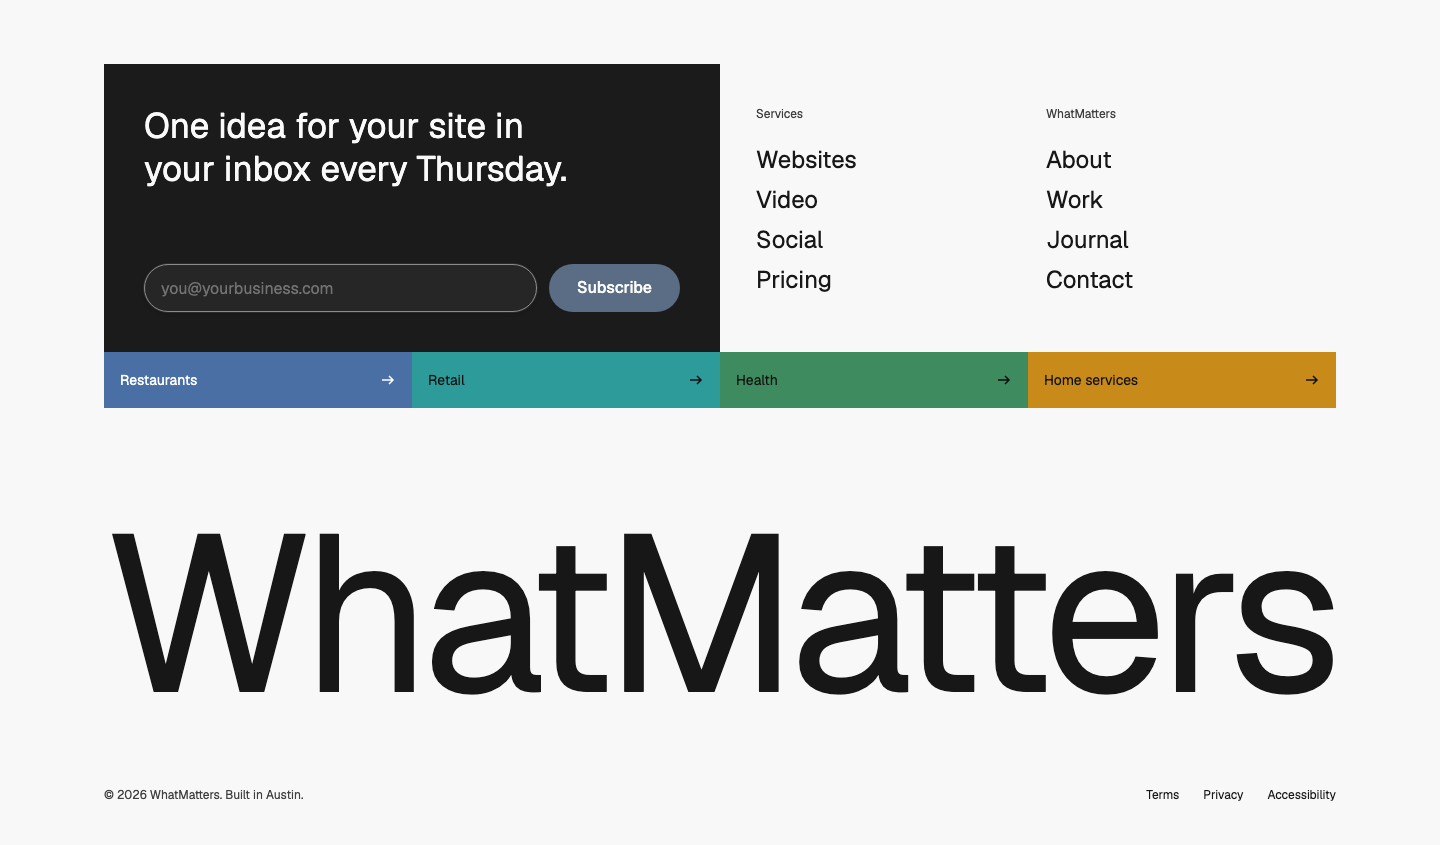
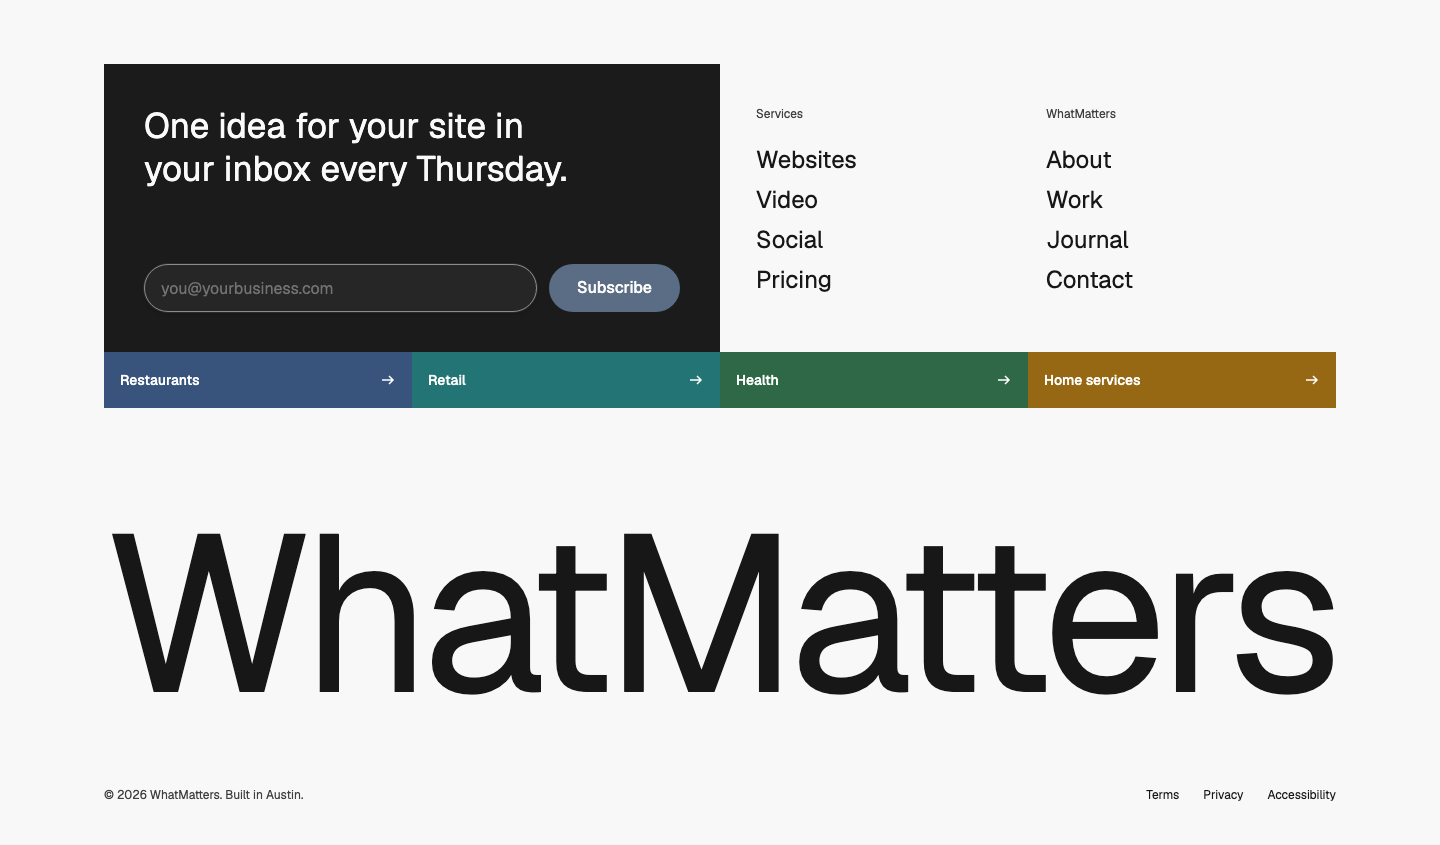
Footer — Wordmark: tiles darkened 25% in light mode with white labels (Randy's pick; 4.9–7.8:1), dark mode unchanged (8–9.5:1); fix tile class join that dropped font-medium and the focus ring; contrast picker reads color(srgb) values

Changed region(s): [[0.0625, 0.4, 0.9375, 0.4923]]

diff --git a/patterns/footer/wordmark/FooterWordmark.tsx b/patterns/footer/wordmark/FooterWordmark.tsx
@@ -5,7 +5,7 @@
  * Everything sits on the WMDS page grid: the card takes the left half, the link columns the right half,
  * the tiles share the page columns (subgrid), and the wordmark spans the full content width.
  */
-import { useId, useLayoutEffect, useRef, useState, type FormEvent, type ReactNode } from "react";
+import { useId, useLayoutEffect, useRef, useState, type CSSProperties, type FormEvent, type ReactNode } from "react";
 import { Button, cn, Input, TextLink } from "@thewhatmatters/wmds";
 
 export interface FooterWordmarkLink {
@@ -66,8 +66,13 @@ const linkItemClasses = "type-heading-1 font-normal text-fg";
 const linkClasses = "inline-block py-1";
 /** Tiles touch, edge to edge: 2 per row on phones and tablets, 4 on desktop, where the row hangs from the card (two tiles = the card's width). */
 const tilesClasses = "col-span-full mt-12 grid grid-cols-2 lg:mt-[calc(var(--grid-row-gap)*-1)] lg:grid-cols-4";
+/**
+ * Tile colour: the given token darkened 25% in light mode, so white text clears AA on every chart colour
+ * (Randy, 2026-10-28: all white labels); in dark mode the token as is (lighter), with dark text.
+ */
 const tileClasses =
-  "group flex min-h-14 items-center justify-between px-4 type-body font-medium" +
+  "group flex min-h-14 items-center justify-between px-4 type-body font-medium " +
+  "bg-[color-mix(in_srgb,var(--tile)_75%,black)] [[data-theme=dark]_&]:bg-[var(--tile)] " +
   "outline-offset-[-3px] focus-visible:outline-2 focus-visible:outline-current";
 const wordmarkClasses = "col-span-full mt-16 overflow-visible text-fg md:mt-24";
 const bottomClasses = "col-span-full mt-10 flex flex-col gap-4 text-muted type-supporting md:mt-16 md:flex-row md:items-center md:justify-between";
@@ -75,9 +80,11 @@ const bottomClasses = "col-span-full mt-10 flex flex-col gap-4 text-muted type-s
 /** Light and dark ink for text on a coloured tile (WMDS has no "on" ink for its chart colours). */
 const inks = { light: "#ffffff", dark: "#111111" };
 
-function luminance(rgb: string) {
-  const [r, g, b] = (rgb.match(/[\d.]+/g) ?? ["0", "0", "0"]).slice(0, 3).map((v) => {
-    const c = Number(v) / 255;
+/** Relative luminance of a computed colour: `rgb(…)` in 0–255, or `color(srgb …)` (from color-mix) in 0–1. */
+function luminance(color: string) {
+  const scale = color.startsWith("color(") ? 1 : 255;
+  const [r, g, b] = (color.match(/[\d.]+/g) ?? ["0", "0", "0"]).slice(0, 3).map((v) => {
+    const c = Number(v) / scale;
     return c <= 0.03928 ? c / 12.92 : ((c + 0.055) / 1.055) ** 2.4;
   });
   return 0.2126 * r + 0.7152 * g + 0.0722 * b;
@@ -204,7 +211,7 @@ export function FooterWordmark({
           <ul ref={tilesRef} className={tilesClasses} data-slot="tiles" data-slot-optional="">
             {tiles.map((tile) => (
               <li key={tile.label} className="contents">
-                <a href={tile.href} className={tileClasses} style={{ backgroundColor: tile.color }} data-tile="">
+                <a href={tile.href} className={tileClasses} style={{ "--tile": tile.color } as CSSProperties} data-tile="">
                   {tile.label}
                   <svg viewBox="0 0 16 16" className="size-4 transition-transform motion-safe:group-hover:translate-x-1" aria-hidden focusable="false">
                     <path d="M2 8h11M9 4l4 4-4 4" fill="none" stroke="currentColor" strokeWidth="1.5" />

diff --git a/patterns/footer/wordmark/README.md b/patterns/footer/wordmark/README.md
@@ -36,7 +36,7 @@ import { FooterWordmark } from "./FooterWordmark";
 | `status` | ReactNode, optional | A line under the form after submitting (sent, already subscribed, an error), announced politely |
 | `emailLabel`, `placeholder`, `submitLabel` | string, optional | The field's spoken label, its placeholder, and the button's text |
 | `columns` | `{ label, links }[]` | Two columns of 2–5 large WMDS `TextLink`s (quiet, `type-heading-1`) on the right half |
-| `tiles` | `{ label, href, color }[]`, optional | 2–4 coloured category links (services, menus, locations); `color` is a WMDS colour token |
+| `tiles` | `{ label, href, color }[]`, optional | 2–4 coloured category links (services, menus, locations); `color` is a WMDS colour token. In light mode the tile is that colour darkened 25% with white text (every example tile 4.9:1 or better); in dark mode it's the colour as is, with dark text |
 | `name` | string | The brand name, set in the heading font and sized to fill the row at every width |
 | `wordmark` | slot, optional | The brand's own logotype SVG instead of `name` |
 | `copyright` | ReactNode | Bottom left |
